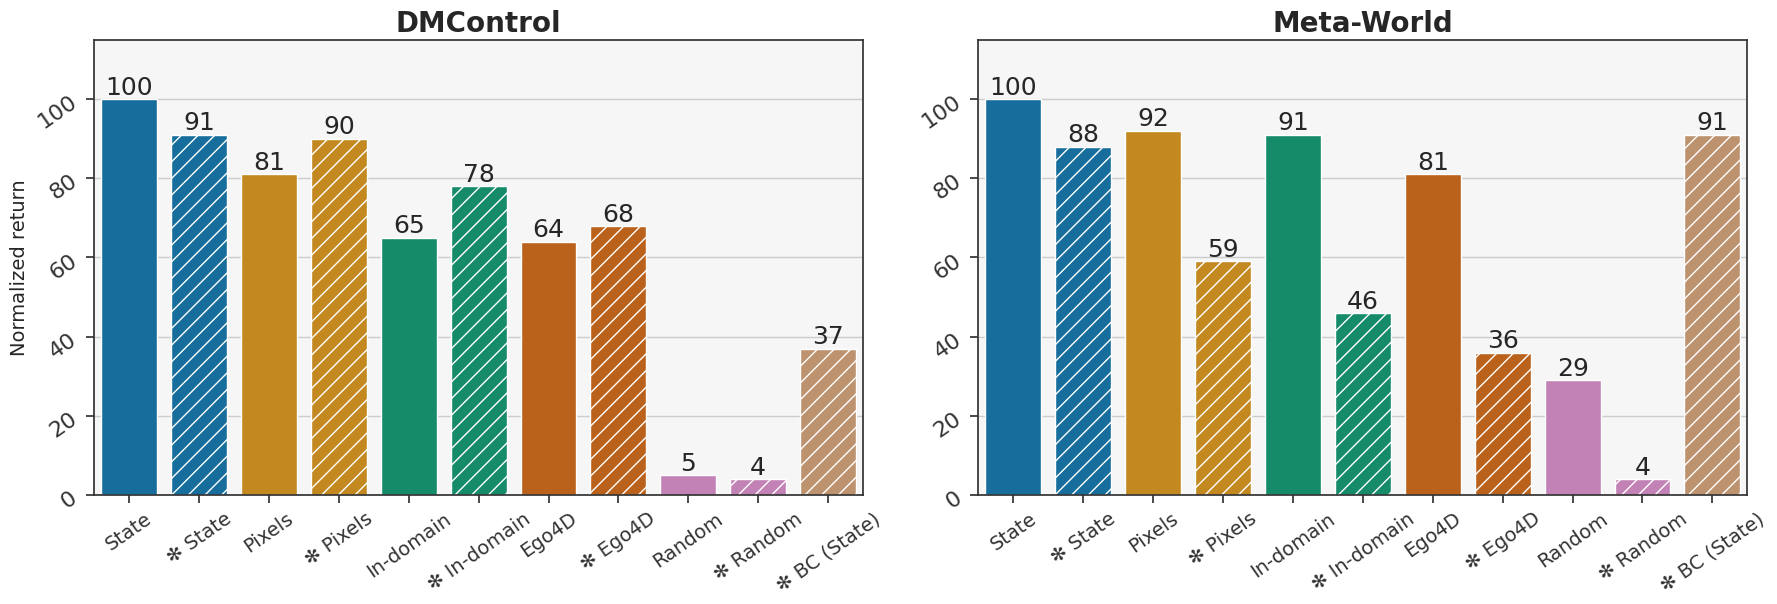
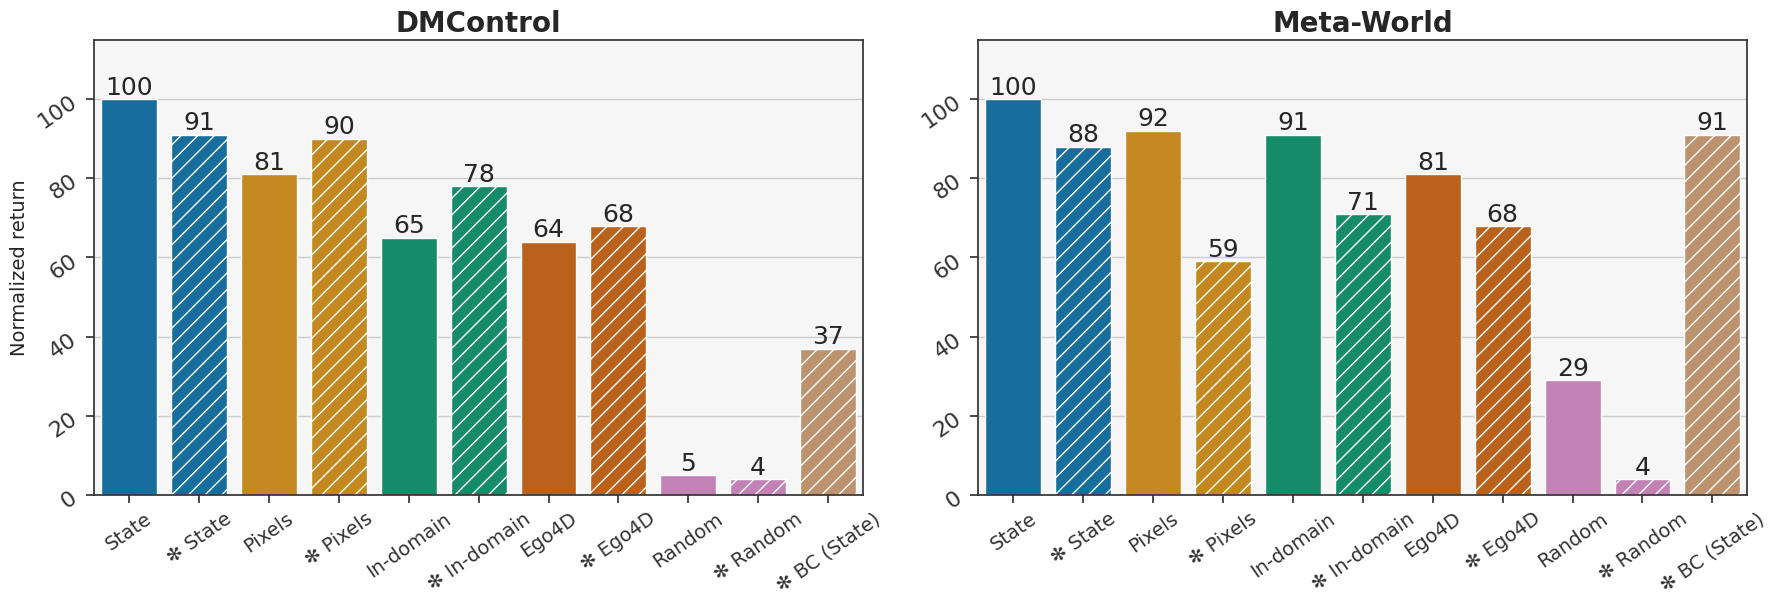
online rl now supports mw fs + prop state too

Changed region(s): [[0.7428, 0.3278, 0.8666, 0.596]]

diff --git a/algorithm/helper.py b/algorithm/helper.py
@@ -413,7 +413,7 @@ class RandomShiftsAug(nn.Module):
 
 class Episode(object):
 	"""Storage object for a single episode."""
-	def __init__(self, cfg, init_obs):
+	def __init__(self, cfg, init_obs, init_state=None):
 		self.cfg = cfg
 		self.device = torch.device(cfg.device)
 		modality_to_dtype = {
@@ -423,6 +423,10 @@ class Episode(object):
 		dtype = modality_to_dtype.get(cfg.modality, torch.float32)
 		self.obs = torch.empty((cfg.episode_length+1, *init_obs.shape), dtype=dtype, device=self.device)
 		self.obs[0] = torch.tensor(init_obs, dtype=dtype, device=self.device)
+		if cfg.get('include_state', False):
+			assert init_state is not None
+			self.state = torch.empty((cfg.episode_length+1, *init_state.shape), dtype=dtype, device=self.device)
+			self.state[0] = torch.tensor(init_state, dtype=dtype, device=self.device)
 		self.action = torch.empty((cfg.episode_length, cfg.action_dim), dtype=torch.float32, device=self.device)
 		self.reward = torch.empty((cfg.episode_length,), dtype=torch.float32, device=self.device)
 		self.cumulative_reward = 0
@@ -452,8 +456,10 @@ class Episode(object):
 		self.add(*transition)
 		return self
 
-	def add(self, obs, action, reward, done):
+	def add(self, obs, state, action, reward, done):
 		self.obs[self._idx+1] = torch.tensor(obs, dtype=self.obs.dtype, device=self.obs.device)
+		if self.cfg.get('include_state', False):
+			self.state[self._idx+1] = torch.tensor(state, dtype=self.state.dtype, device=self.state.device)
 		self.action[self._idx] = action
 		self.reward[self._idx] = reward
 		self.cumulative_reward += reward
@@ -506,20 +512,23 @@ class ReplayBuffer(object):
 		assert not self.full, 'Replay buffer is full'
 		if self.cfg.modality == 'pixels':
 			obs = episode.obs[:-1, -3:]
-			last_obs = episode.obs[-self.cfg.frame_stack:].view(self.cfg.frame_stack*3, *self.cfg.obs_shape[-2:])
 		elif self.cfg.modality == 'map':
 			obs = episode.obs[:-1, -self.cfg.feature_dims[0]:]
-			last_obs = episode.obs[-1]
 		else:
 			obs = episode.obs[:-1]
-			last_obs = episode.obs[-1]
+		last_obs = episode.obs[-1]
 		self._obs[self.idx:self.idx+self.cfg.episode_length] = obs
 		self._last_obs[self.idx//self.cfg.episode_length] = last_obs
 		self._action[self.idx:self.idx+self.cfg.episode_length] = episode.action
 		self._reward[self.idx:self.idx+self.cfg.episode_length] = episode.reward
 		if self.cfg.get('include_state', False):
-			states = torch.tensor(episode.metadata['states'], dtype=torch.float32)
-			states = torch.cat((states[:,:4], states[:,18:18+4]), dim=-1)
+			if 'state' in episode.__dict__:
+				states = torch.tensor(episode.state, dtype=torch.float32)
+			elif 'metadata' in episode.__dict__:
+				states = torch.tensor(episode.metadata['states'], dtype=torch.float32)
+				states = torch.cat((states[:,:4], states[:,18:18+4]), dim=-1)
+			else:
+				raise ValueError('Episode does not contain state or metadata')
 			self._state[self.idx:self.idx+self.cfg.episode_length, :self._state_dim] = states[:-1]
 			self._last_state[self.idx//self.cfg.episode_length, :self._state_dim] = states[-1]
 		if self._full:

diff --git a/plots/singletask.py b/plots/singletask.py
@@ -1,4 +1,5 @@
 import os, sys
+from re import L
 sys.path.append(os.path.dirname(os.path.dirname(os.path.abspath(__file__))))
 import numpy as np
 import wandb
@@ -34,7 +35,7 @@ def main():
 		'dmcontrol': ['cup-catch', 'finger-spin', 'cheetah-run', 'walker-walk', 'walker-run'],
 		'metaworld': ['mw-drawer-close', 'mw-drawer-open', 'mw-hammer', 'mw-box-close', 'mw-push']
 	}
-	exp_names = ['v1', 'offline-v2', 'mocodmcontrol-v1', 'mocodmcontrol-offline-v2', 'mocometaworld-v1', 'mocometaworld-offline-v2', 'mocoego-v1', 'mocoego-offline-v2', 'random-v1', 'random-offline-v2', 'bc-offline-v2']
+	exp_names = ['v1', 'offline-v2', 'mocodmcontrol-v1', 'mocodmcontrol-offline-v2', 'mocometaworld-v1', 'mocometaworld-offline-v2-fs', 'mocoego-v1', 'mocoego-offline-v2', 'mocoego-offline-v2-fs', 'random-v1', 'random-offline-v2', 'bc-offline-v2']
 	experiment2label = {
 		'state-v1': 'State',
 		'state-offline-v2': '✻ State',
@@ -43,9 +44,10 @@ def main():
 		'features-mocodmcontrol-v1': 'In-domain',
 		'features-mocodmcontrol-offline-v2': '✻ In-domain',
 		'features-mocometaworld-v1': 'In-domain',
-		'features-mocometaworld-offline-v2': '✻ In-domain',
+		'features-mocometaworld-offline-v2-fs': '✻ In-domain',
 		'features-mocoego-v1': 'Ego4D',
 		'features-mocoego-offline-v2': '✻ Ego4D',
+		'features-mocoego-offline-v2-fs': '✻ Ego4D',
 		'features-random-v1': 'Random',
 		'features-random-offline-v2': '✻ Random',
 		'state-bc-offline-v2': '✻ BC (State)',
@@ -76,6 +78,8 @@ def main():
 		   exp_name not in exp_names or \
 		   seed not in seeds:
 			continue
+		if exp_name == 'mocoego-offline-v2' and task in tasks['metaworld']:
+			continue
 		key = 'offline/reward' if 'offline' in exp_name else 'eval/episode_reward'
 		hist = run.history(keys=[key], x_axis='_step')
 		if len(hist) < 4:
@@ -89,6 +93,8 @@ def main():
 			continue
 		reward = np.array(hist[key])
 		reward = reward[:min(len(step), len(reward))][-1]
+		if exp_name.endswith('-fs'):
+			reward *= 5
 		print('experiment', experiment)
 		# print(f'Appending experiment {label} for task {task} with reward {reward} at step {step[-1]}')
 		entries.append(

diff --git a/train.py b/train.py
@@ -20,15 +20,16 @@ torch.backends.cudnn.benchmark = True
 __CONFIG__, __MODELS__ = 'cfgs', 'models'
 
 
-def evaluate(env, agent, num_episodes, step, env_step, video):
+def evaluate(env, agent, cfg, step, env_step, video):
 	"""Evaluate a trained agent and optionally save a video."""
 	episode_rewards = []
 	episode_successes = []
-	for i in range(num_episodes):
+	for i in range(cfg.eval_episodes):
 		obs, done, ep_reward, t = env.reset(), False, 0, 0
 		if video: video.init(env, enabled=(i==0))
 		while not done:
-			action = agent.plan(obs, None, None, eval_mode=True, step=step, t0=t==0)
+			state = env.state if cfg.get('include_state', False) else None
+			action = agent.plan(obs, None, state, eval_mode=True, step=step, t0=t==0)
 			obs, reward, done, info = env.step(action.cpu().numpy())
 			ep_reward += reward
 			if video: video.record(env)
@@ -57,11 +58,13 @@ def train(cfg: dict):
 
 		# Collect trajectory
 		obs = env.reset()
-		episode = Episode(cfg, obs)
+		state = env.state if cfg.get('include_state', False) else None
+		episode = Episode(cfg, obs, state)
 		while not episode.done:
-			action = agent.plan(obs, None, None, step=step, t0=episode.first)
+			action = agent.plan(obs, None, state, step=step, t0=episode.first)
 			obs, reward, done, info = env.step(action.cpu().numpy())
-			episode += (obs, action, reward, done)
+			state = env.state if cfg.get('include_state', False) else None
+			episode += (obs, state, action, reward, done)
 		if len(episode) < cfg.episode_length:
 			print(len(episode), done, episode.reward[:len(episode)].sum().cpu().item())
 		assert len(episode) == cfg.episode_length
@@ -89,7 +92,7 @@ def train(cfg: dict):
 
 		# Evaluate agent periodically
 		if env_step % cfg.eval_freq == 0:
-			eval_rew, eval_succ = evaluate(env, agent, cfg.eval_episodes, step, env_step, L.video)
+			eval_rew, eval_succ = evaluate(env, agent, cfg, step, env_step, L.video)
 			common_metrics.update({
 				'episode_reward': eval_rew,
 				'episode_success': eval_succ})

diff --git a/encode_dataset.py b/encode_dataset.py
@@ -124,13 +124,6 @@ def encode_resnet(obs, cfg):
 		obs = __PREPROCESS__(obs.cuda() / 255.)
 		with torch.no_grad(), torch.cuda.amp.autocast():
 			features = __ENCODER__(obs)
-		# breakpoint()
-		# save to disk
-		# for i in range(len(features)):
-		# 	for j in range(32):
-		# 		resize = K.Resize((224, 224), resample=Resample.BICUBIC)
-		# 		img = resize(features[i][j].float().clip(0, 1).cpu().unsqueeze(0).repeat(3, 1, 1))
-		# 		torchvision.utils.save_image(img, f'{cfg.logging_dir}/features_{i}_{j}.png')
 	else:
 		with torch.no_grad():
 			features = __ENCODER__(__PREPROCESS__(obs.cuda() / 255.))
